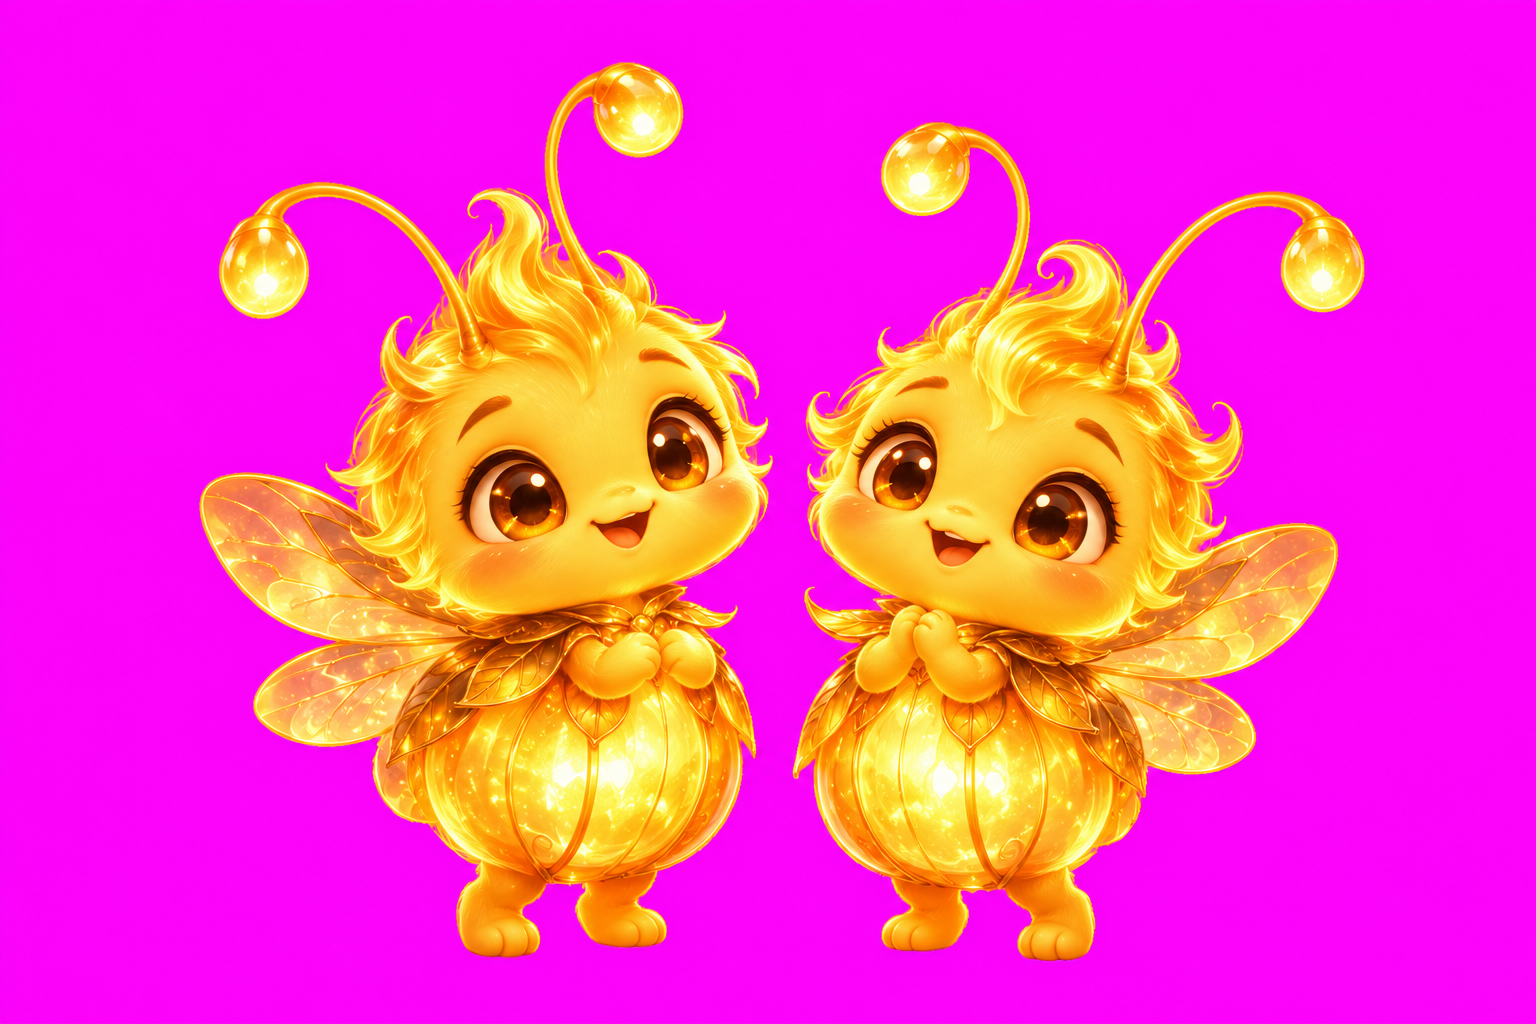
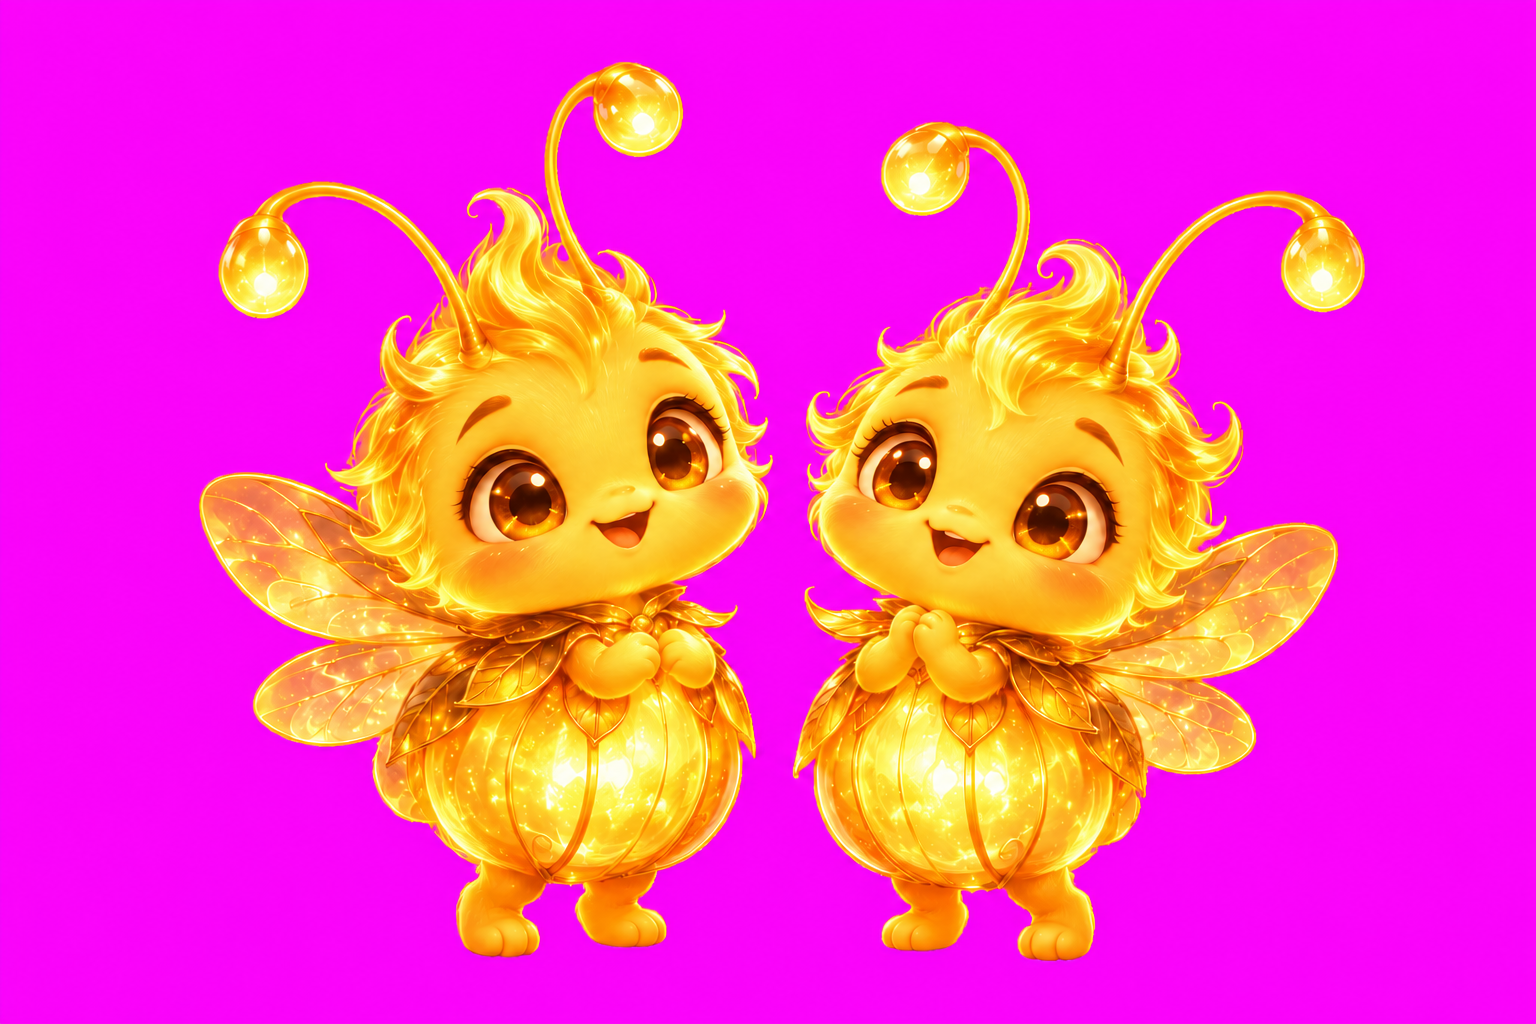
Correction 7: time of day redesigned. Looks taken from Codex's repaintings (dawn, day; night by hand until Codex is back), applied where every layer reads its painting (tod-lut.png, one look-up per mood, land and sky apart), lights kept warm at night, stars and moon live, sun path off the sea at nig

diff --git a/prototypes/p2-spikes/SpikeLab/Shell/SolarClock.swift b/prototypes/p2-spikes/SpikeLab/Shell/SolarClock.swift
@@ -1,0 +1,61 @@
+// The light of the real day (corrections list #7): the worlds follow the sun, not just the clock. Sunrise and sunset
+// move with the seasons (dark at 17:30 in December, light at 21:00 in June), from a rough place guessed from the
+// time zone (no location permission). The shaders get a "light hour" in which sunrise is always 6:15 and sunset
+// 18:45, so the painted looks of dawn, day, dusk and night (tod-lut.png) land at the right moments all year.
+import Foundation
+import RealityKit
+
+enum SolarClock {
+    /// A rough place for the time zone (latitude, longitude); the zone's own meridian when unknown.
+    private static let place: (lat: Double, lon: Double) = {
+        let tz = TimeZone.current
+        let known: [String: (Double, Double)] = [
+            "Europe/Paris": (48.9, 2.4), "Europe/London": (51.5, -0.1), "Europe/Berlin": (52.5, 13.4),
+            "Europe/Madrid": (40.4, -3.7), "Europe/Rome": (41.9, 12.5), "Europe/Brussels": (50.8, 4.4),
+            "Europe/Amsterdam": (52.4, 4.9), "Europe/Zurich": (47.4, 8.5), "America/New_York": (40.7, -74.0),
+            "America/Los_Angeles": (34.1, -118.2), "America/Chicago": (41.9, -87.6), "Asia/Tokyo": (35.7, 139.7),
+            "Australia/Sydney": (-33.9, 151.2), "America/Montreal": (45.5, -73.6), "America/Toronto": (43.7, -79.4),
+        ]
+        if let k = known[tz.identifier] { return k }
+        let std = Double(tz.secondsFromGMT() - Int(tz.daylightSavingTimeOffset())) / 3600
+        return (45, std * 15)
+    }()
+
+    /// Sunrise, solar noon and sunset today, in local clock hours.
+    static func sun(on date: Date = Date()) -> (rise: Double, noon: Double, set: Double) {
+        let cal = Calendar.current, tz = TimeZone.current
+        let n = Double(cal.ordinality(of: .day, in: .year, for: date) ?? 172)
+        let decl = -23.44 * cos(2 * .pi / 365 * (n + 10)) * .pi / 180
+        let lat = place.lat * .pi / 180
+        let cosW = max(-1, min(1, -tan(lat) * tan(decl)))
+        let half = acos(cosW) * 180 / .pi / 15                       // half the day length, in hours
+        let b = 2 * .pi * (n - 81) / 364                              // the equation of time (minutes)
+        let eot = 9.87 * sin(2 * b) - 7.53 * cos(b) - 1.5 * sin(b)
+        let zone = Double(tz.secondsFromGMT(for: date)) / 3600
+        let noon = 12 + zone - place.lon / 15 - eot / 60
+        return (noon - half, noon, noon + half)
+    }
+
+    /// The clock bent so that sunrise is 6:15 and sunset 18:45 (what the shaders expect).
+    static func lightHour(_ date: Date = Date()) -> Float {
+        let c = Calendar.current.dateComponents([.hour, .minute, .second], from: date)
+        let h = Double(c.hour ?? 18) + Double(c.minute ?? 0) / 60 + Double(c.second ?? 0) / 3600
+        let s = sun(on: date)
+        let rise = min(max(s.rise, 2), 10), set = min(max(s.set, 14), 23), noon = min(max(s.noon, rise + 1), set - 1)
+        let pts: [(Double, Double)] = [(0, 0), (rise, 6.25), (noon, 12.5), (set, 18.75), (24, 24)]
+        for i in 1..<pts.count where h <= pts[i].0 {
+            let (x0, y0) = pts[i - 1], (x1, y1) = pts[i]
+            return Float(y0 + (h - x0) / max(0.01, x1 - x0) * (y1 - y0))
+        }
+        return Float(h)
+    }
+
+    /// The looks of the hour, shared by every world's material (loaded once, no mipmaps: tiles must not blend).
+    @MainActor private static var lutCache: TextureResource?
+    @MainActor static func lut() async -> TextureResource? {
+        if let lutCache { return lutCache }
+        let t = try? await TextureResource(named: "tod-lut.png", options: .init(semantic: .raw, mipmapsMode: .none))
+        lutCache = t
+        return t
+    }
+}

diff --git a/prototypes/p2-spikes/SpikeLab/S2View.swift b/prototypes/p2-spikes/SpikeLab/S2View.swift
@@ -156,6 +156,7 @@ final class SanctuaryScene {
         var material: any RealityKit.Material = unlit
         if let lib {
             var m = try CustomMaterial(from: unlit, surfaceShader: .init(named: "stoneLive", in: lib))
+            if let lut = await SolarClock.lut() { m.emissiveColor = .init(texture: .init(lut)) }   // the looks of the hour
             m.custom.texture = .init(motion)
             m.custom.value = [1, 0.5, 0.5, 0]
             if layers != nil {        // the land is cut out where the sky and the sea live (soft edges, still writes depth)
@@ -172,6 +173,7 @@ final class SanctuaryScene {
             let skyBase = try await TextureResource(named: "world-sky-base.png")
             var su = UnlitMaterial(); su.color = .init(tint: .white, texture: .init(skyTex))
             var sm = try CustomMaterial(from: su, surfaceShader: .init(named: "skyLive", in: lib))
+            if let lut = await SolarClock.lut() { sm.emissiveColor = .init(texture: .init(lut)) }   // the looks of the hour
             sm.custom.texture = .init(skyBase); sm.custom.value = [1, 0, 0, 0]
             let skyD: Float = 3.5, ks = skyD / Self.distance
             let sk = ModelEntity(mesh: .generatePlane(width: w * ks * 1.06, height: h * ks * 1.06), materials: [sm])
@@ -183,6 +185,7 @@ final class SanctuaryScene {
             let seaTex = try await TextureResource(named: "world-sea.png")
             var qu = UnlitMaterial(); qu.color = .init(tint: .white, texture: .init(seaTex))
             var qm = try CustomMaterial(from: qu, surfaceShader: .init(named: "seaLive", in: lib))
+            if let lut = await SolarClock.lut() { qm.emissiveColor = .init(texture: .init(lut)) }   // the looks of the hour
             qm.custom.value = [1, 0, 0, 0]; qm.blending = .transparent(opacity: .init(floatLiteral: 1.0)); qm.writesDepth = true
             let (sx, sy) = (40, 120)
             var spos: [SIMD3<Float>] = [], suv: [SIMD2<Float>] = [], sidx: [UInt32] = []
@@ -209,6 +212,7 @@ final class SanctuaryScene {
             let blank = try await TextureResource(named: "blank-mask.png", options: .init(semantic: .raw))
             var u = UnlitMaterial(); u.color = .init(tint: .white, texture: .init(bTex))
             var m = try CustomMaterial(from: u, surfaceShader: .init(named: "stoneLive", in: lib))
+            if let lut = await SolarClock.lut() { m.emissiveColor = .init(texture: .init(lut)) }   // the looks of the hour
             m.custom.texture = .init(blank); m.custom.value = [1, 0.5, 0.5, 0]
             let back: Float = layers == nil ? 0.5 : 3.0, k = (Self.distance + back) / Self.distance   // behind the sky when it exists
             let bw = layout.map { w * $0.backdropW / $0.total * k } ?? w * (1618.0 / 852.0) * k
@@ -421,8 +425,7 @@ final class SanctuaryScene {
         if Self.hourCycle { hourOverride = (6 + time * 0.8).truncatingRemainder(dividingBy: 24) }
         else if let h = Self.hourArg { hourOverride = h }
         if time - clockReadAt > 5 || clockReadAt == 0 {       // the clock is read every few seconds, not every frame
-            let comps = Calendar.current.dateComponents([.hour, .minute], from: Date())
-            clockHour = Float(comps.hour ?? 18) + Float(comps.minute ?? 0) / 60; clockReadAt = time
+            clockHour = SolarClock.lightHour(); clockReadAt = time          // the real sun (seasons included)
         }
         currentHour = hourOverride ?? clockHour
         // Re-sending a material to the graphics chip costs time on every frame: only when something really changed

diff --git a/prototypes/p2-spikes/SpikeLab/Shell/MapScene.swift b/prototypes/p2-spikes/SpikeLab/Shell/MapScene.swift
@@ -44,6 +44,7 @@ final class MapScene {
     private var sparkBase = SIMD3<Float>(0, 0, 0)
     private var time: Float = 0
     var hourOverride: Float?
+    private var clockHour: Float = 18, clockReadAt: Float = 0, lightSentAt: Float = -1
 
     // Camera: pan (meters on the map) and zoom (1 = the default view), both on critically damped springs.
     var panTarget = SIMD2<Float>(0, 0), zoomTarget: Float = 1
@@ -131,6 +132,7 @@ final class MapScene {
         var material: any RealityKit.Material = unlit
         if let lib {
             var m = try CustomMaterial(from: unlit, surfaceShader: .init(named: "stoneLive", in: lib))
+            if let lut = await SolarClock.lut() { m.emissiveColor = .init(texture: .init(lut)) }   // the looks of the hour
             m.custom.texture = .init(motion)
             m.custom.value = [1, 0.5, 0.5, 0]                        // full vitality, no Flame light on the map
             m.specular = .init(floatLiteral: -5)                     // no sun rays (the sun is beyond the map's top)
@@ -335,9 +337,11 @@ final class MapScene {
         camera.look(at: pos + SIMD3(0, 0, -1), from: pos, relativeTo: root)
 
         // The light of the hour on the whole map.
-        if let painting, var comp = painting.model, var m = comp.materials.first as? CustomMaterial {
-            let comps = Calendar.current.dateComponents([.hour, .minute], from: Date())
-            let hour = hourOverride ?? (Float(comps.hour ?? 18) + Float(comps.minute ?? 0) / 60)
+        // (Re-sent four times a second, not every frame: the wind and the hour change slowly.)
+        if time - lightSentAt > 0.25, let painting, var comp = painting.model, var m = comp.materials.first as? CustomMaterial {
+            lightSentAt = time
+            if time - clockReadAt > 5 || clockReadAt == 0 { clockHour = SolarClock.lightHour(); clockReadAt = time }
+            let hour = hourOverride ?? clockHour
             m.metallic = .init(floatLiteral: hour / 24)
             m.roughness = .init(floatLiteral: 0.25 + 0.15 * sin(time * 0.3))
             comp.materials = [m]; painting.model = comp

diff --git a/prototypes/p2-spikes/SpikeLab/WorldElements.swift b/prototypes/p2-spikes/SpikeLab/WorldElements.swift
@@ -8,6 +8,7 @@ import UIKit
 final class WorldElements {
     let root = Entity()
     private var clouds: [(e: ModelEntity, speed: Float, baseX: Float)] = []
+    private var lastTintKey = -1
     private var fireflies: Entity?
     private var flames: [Entity] = []
     private var time: Float = 0
@@ -110,13 +111,16 @@ final class WorldElements {
         let n = min(1, night)
         let tint: UIColor = n > 0.5 ? UIColor(red: 0.45, green: 0.5, blue: 0.7, alpha: 0.35)
             : (hour > 9.5 && hour < 17) ? UIColor(white: 1, alpha: 0.6) : UIColor(red: 1, green: 0.82, blue: 0.78, alpha: 0.55)
+        let tintKey = n > 0.5 ? 2 : (hour > 9.5 && hour < 17) ? 1 : 0
+        let retint = tintKey != lastTintKey             // materials re-sent only when the hour's colour changes
+        lastTintKey = tintKey
         for i in clouds.indices {
             var c = clouds[i]
             var p = c.e.position
             p.x += (c.speed + wind * 0.004) * dt
             if p.x > cloudBounds { p.x = -cloudBounds }
             c.e.position = p
-            if var comp = c.e.model, var m = comp.materials.first as? UnlitMaterial {
+            if retint, var comp = c.e.model, var m = comp.materials.first as? UnlitMaterial {
                 m.color = .init(tint: tint, texture: m.color.texture); comp.materials = [m]; c.e.model = comp
             }
             clouds[i] = c

diff --git a/prototypes/p2-spikes/SpikeLab/S3View.swift b/prototypes/p2-spikes/SpikeLab/S3View.swift
@@ -163,6 +163,7 @@ final class RealmScene {
         var material: any RealityKit.Material = unlit
         if let lib {
             var m = try CustomMaterial(from: unlit, surfaceShader: .init(named: "groveRestore", in: lib))
+            if let lut = await SolarClock.lut() { m.emissiveColor = .init(texture: .init(lut)) }   // the looks of the hour
             m.custom.texture = .init(lanternTex)
             m.custom.value = [0, 1, -1, 10]
             m.metallic = .init(floatLiteral: hasWater ? 1 : 0)      // 1 = the water mask is in the lights map's alpha
@@ -274,8 +275,7 @@ final class RealmScene {
         if let i = CommandLine.arguments.firstIndex(of: "-hour"), i + 1 < CommandLine.arguments.count, let h = Float(CommandLine.arguments[i + 1]) {
             hero.hour = h                                            // (test: a given hour, as at home)
         } else if time - clockReadAt > 5 || clockReadAt == 0 {     // the real clock, read every few seconds
-            let comps = Calendar.current.dateComponents([.hour, .minute], from: Date())
-            hero.hour = Float(comps.hour ?? 18) + Float(comps.minute ?? 0) / 60; clockReadAt = time
+            hero.hour = SolarClock.lightHour(); clockReadAt = time          // the real sun (seasons included)
         }
         hero.update(dt: dt)
         flareAge += dt

diff --git a/prototypes/p2-spikes/tools/build_tod_luts.py b/prototypes/p2-spikes/tools/build_tod_luts.py
@@ -1,0 +1,118 @@
+#!/usr/bin/env python3
+"""The looks of the hour (corrections list #7, 2026-10-05): from Codex's repaintings of the Sanctuary at dawn, day
+and night (docs/design/p26/tod-*.png) against the painting itself (dusk), a colour look-up per mood, fitted
+separately for the land and for the sky, so every world can wear the light of any hour exactly as painted.
+Writes SpikeLab/Assets/tod-lut.png: 1024 × 256, rows of 32 px; row k = one 32³ look-up (32 tiles of 32×32, blue
+across tiles, red across a tile, green down it). Rows 0–3 land dawn/day/dusk/night, rows 4–7 the sky.
+Colours are stored in a gamma-2 space (sqrt of linear), as the shader reads them. Dusk is the painting (identity).
+A missing painting gives an identity look (until Codex delivers). Run from prototypes/p2-spikes."""
+import os
+import numpy as np
+from PIL import Image, ImageFilter
+from scipy import ndimage as nd
+
+A = "SpikeLab/Assets"; D = "../../docs/design/p26"
+N = 32
+
+def lin(s):  # sRGB 0..1 → linear
+    return np.where(s <= 0.04045, s / 12.92, ((s + 0.055) / 1.055) ** 2.4)
+
+def g2(img):  # PIL RGB → gamma-2 space (sqrt of linear), float
+    return np.sqrt(lin(np.asarray(img).astype(float) / 255))
+
+grid = (np.arange(N) / (N - 1))
+R, G, B = np.meshgrid(grid, grid, grid, indexing="ij")
+identity = np.stack([R, G, B], -1)                   # [r, g, b, 3]
+
+def fit(src, dst, mask):
+    """Mean target colour per source-colour cell, filled and smoothed where the painting has no such colour."""
+    s = src[mask]; d = dst[mask]
+    idx = np.clip(np.rint(s * (N - 1)).astype(int), 0, N - 1)
+    flat = idx[:, 0] * N * N + idx[:, 1] * N + idx[:, 2]
+    cnt = np.bincount(flat, minlength=N ** 3).astype(float)
+    acc = np.stack([np.bincount(flat, d[:, k], minlength=N ** 3) for k in range(3)], -1)
+    cnt = cnt.reshape(N, N, N); acc = acc.reshape(N, N, N, 3)
+    # A global fit (affine, plus a little curvature) for colours the painting never uses.
+    X = np.c_[s, s ** 2, np.ones(len(s))]
+    coef, *_ = np.linalg.lstsq(X, d, rcond=None)
+    Xg = np.c_[identity.reshape(-1, 3), identity.reshape(-1, 3) ** 2, np.ones(N ** 3)]
+    glob = (Xg @ coef).reshape(N, N, N, 3)
+    # Normalised convolution: smooth where data is, spread it into empty cells.
+    out = glob.copy()
+    for sig in (3.0, 1.6, 0.8):                          # coarse to fine: finer wins where the data is dense
+        c = nd.gaussian_filter(cnt, sig)
+        a = np.stack([nd.gaussian_filter(acc[..., k], sig) for k in range(3)], -1)
+        m = a / np.maximum(c, 1e-6)[..., None]
+        w = np.clip(c / 4.0, 0, 1)[..., None]
+        out = out * (1 - w) + m * w
+    return np.clip(out, 0, 1)
+
+YCC = np.array([[0.299, 0.587, 0.114], [-0.169, -0.331, 0.5], [0.5, -0.419, -0.081]])
+
+def match(lut, s, d):
+    """Averaging slightly misaligned pixels greys the colours: re-match the painting's own spread of brightness and
+    colour (histogram matching in a luma/chroma space, on what the look gives the painting vs the repainting)."""
+    from scipy.ndimage import map_coordinates
+    got = np.stack([map_coordinates(lut[..., k], (s * (N - 1)).T, order=1) for k in range(3)], -1)
+    a = got @ YCC.T; b = d @ YCC.T
+    L = lut.reshape(-1, 3) @ YCC.T
+    q = np.linspace(0, 1, 256)
+    for k in range(3):
+        qa = np.quantile(a[:, k], q); qb = np.quantile(b[:, k], q)
+        L[:, k] = np.interp(L[:, k], qa, qb)
+    return np.clip((L @ np.linalg.inv(YCC).T).reshape(lut.shape), 0, 1)
+
+def tile(lut):
+    """[r, g, b, 3] → 32 × 1024 image row (blue across tiles, red across a tile, green down)."""
+    img = np.zeros((N, N * N, 3))
+    for b in range(N):
+        img[:, b * N:(b + 1) * N] = lut[:, :, b].transpose(1, 0, 2)     # rows = green, cols = red
+    return img
+
+def night_by_hand(part):
+    """Until Codex's night painting exists: a moonlit night by hand (blue-teal, the land still readable, painted
+    lights and very warm glows kept warm; stars and the moon are added live by the shader)."""
+    c = identity ** 2                                   # gamma-2 grid → linear
+    Y = c @ [0.2126, 0.7152, 0.0722]
+    if part == "sky":
+        lo, hi = np.array([0.008, 0.014, 0.05]), np.array([0.07, 0.11, 0.26])
+        out = lo + (hi - lo) * (Y ** 0.6)[..., None]
+    else:
+        y = 0.012 + 0.34 * Y ** 0.85                    # dimmer, but never pitch black
+        tint = np.array([0.56, 0.76, 1.14])
+        grey = (y[..., None] * tint)
+        out = grey * 0.82 + c * y[..., None] / np.maximum(Y, 1e-4)[..., None] * 0.18   # a memory of its colour
+        warm = np.clip((c[..., 0] - c[..., 2]) * 3, 0, 1) * np.clip((Y - 0.45) * 3, 0, 1)   # painted glows
+        out = out * (1 - warm[..., None]) + c * 0.85 * warm[..., None]
+    return np.sqrt(np.clip(out, 0, 1))
+
+paint = Image.open(f"{A}/world-paint.png").convert("RGB")
+W, H = 400, int(400 * paint.height / paint.width)
+# Small and softly blurred: the repaintings are close to the original but never pixel-exact.
+def prep(im): return g2(im.convert("RGB").resize((W, H), Image.LANCZOS).filter(ImageFilter.GaussianBlur(1.5)))
+src = prep(paint)
+sky = np.zeros((H, W), bool)
+if os.path.exists(f"{A}/world-sky.png"):                       # the Sanctuary's sky layer (its alpha)
+    sa = np.asarray(Image.open(f"{A}/world-sky.png").convert("RGBA").resize((W, H)))[..., 3] > 128
+    land_a = np.asarray(Image.open(f"{A}/world-land.png").convert("RGBA").resize((W, H)))[..., 3] if os.path.exists(f"{A}/world-land.png") else None
+    sky = sa & (land_a < 40) if land_a is not None else sa
+else:
+    sky[: int(H * 0.22)] = True
+sky = nd.binary_erosion(sky, iterations=3)
+land = ~nd.binary_dilation(sky, iterations=3)
+print("sky", round(sky.mean(), 3), "land", round(land.mean(), 3))
+
+rows = []
+for part, mask in (("land", land), ("sky", sky)):
+    for mood in ("dawn", "day", "dusk", "night"):
+        ref = f"{D}/tod-{mood}.png"
+        if mood == "night" and not os.path.exists(ref):
+            rows.append(tile(night_by_hand(part))); print(part, mood, "by hand"); continue
+        if mood == "dusk" or not os.path.exists(ref) or mask.sum() < 500:
+            rows.append(tile(identity)); print(part, mood, "identity"); continue
+        dst = prep(Image.open(ref))
+        lut = match(fit(src, dst, mask), src[mask], dst[mask])
+        rows.append(tile(lut)); print(part, mood, "fitted")
+out = (np.concatenate(rows, 0) * 255 + 0.5).clip(0, 255).astype(np.uint8)
+Image.fromarray(out).save(f"{A}/tod-lut.png")
+print("wrote", out.shape)
